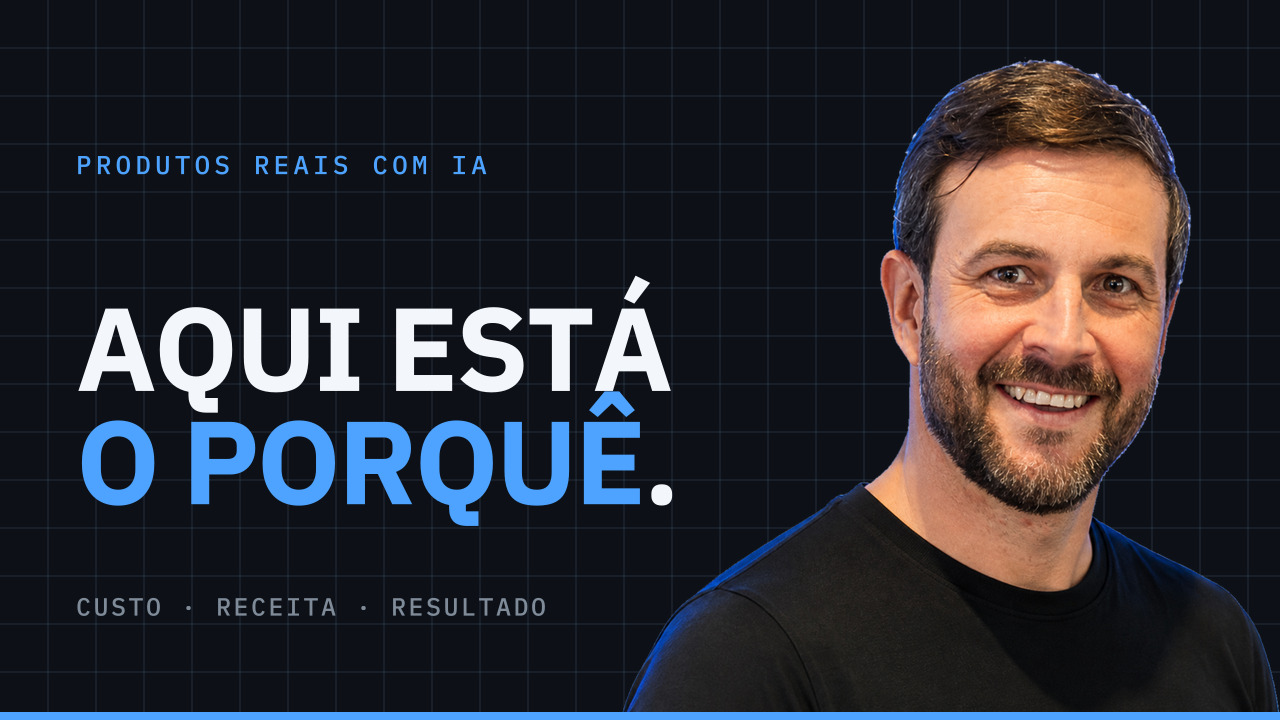
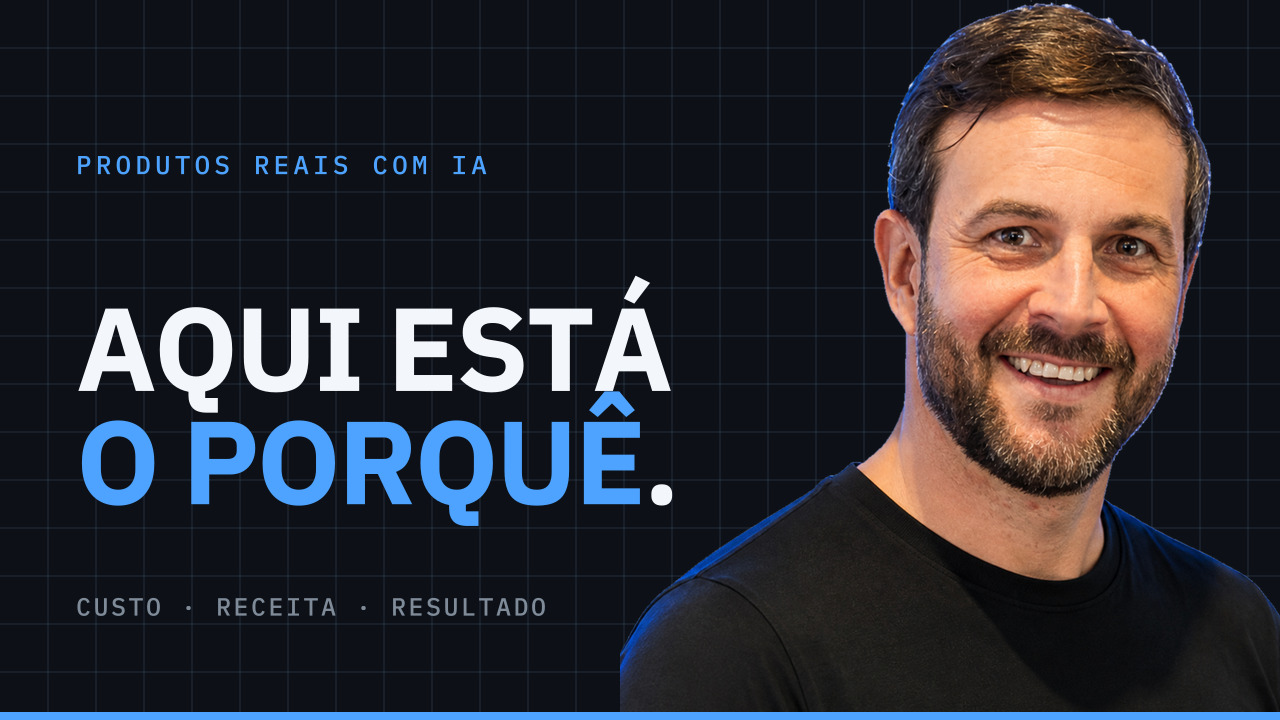
fix: restore thumbnail photo scale

Changed region(s): [[0.4688, 0.0, 1.0, 1.0], [0.7188, 0.7333, 0.8438, 0.825]]

diff --git a/brand-assets/exports/day-1/05-youtube/versions/v2-approved-founder-cutouts/README.md b/brand-assets/exports/day-1/05-youtube/versions/v2-approved-founder-cutouts/README.md
@@ -19,6 +19,7 @@ Este pack não substitui os exports publicados em `day-1/05-youtube/` nem sobres
 
 - `#0D1117` e grid estrutural de 48px, sem redução de opacidade;
 - headline à esquerda, retrato ampliado à direita;
+- retratos frontais preenchem a altura da faixa; `present-left` usa faixa ampliada de 760px para preservar o gesto completo;
 - headline, copy, safe zone e barra inferior do Reference Pattern;
 - IBM Plex Sans para headline e IBM Plex Mono para kicker/subline;
 - foto completa, sem fade, sombra, escurecimento ou recorte de gesto;

diff --git a/brand-assets/thumbnails/versions/v2-approved-founder-cutouts/README.md b/brand-assets/thumbnails/versions/v2-approved-founder-cutouts/README.md
@@ -19,6 +19,7 @@ Este pack não substitui os exports publicados em `day-1/05-youtube/` nem sobres
 
 - `#0D1117` e grid estrutural de 48px, sem redução de opacidade;
 - headline à esquerda, retrato ampliado à direita;
+- retratos frontais preenchem a altura da faixa; `present-left` usa faixa ampliada de 760px para preservar o gesto completo;
 - headline, copy, safe zone e barra inferior do Reference Pattern;
 - IBM Plex Sans para headline e IBM Plex Mono para kicker/subline;
 - foto completa, sem fade, sombra, escurecimento ou recorte de gesto;
